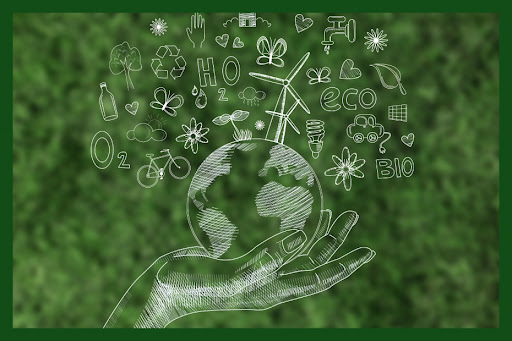
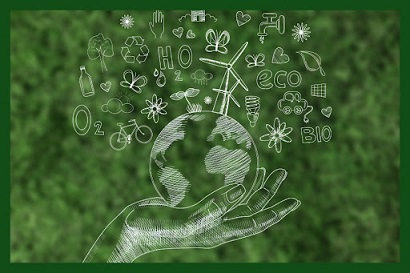
Add files via upload

diff --git a/index.html b/index.html
@@ -31,7 +31,7 @@
                     個人作品集
                 </a>
                 <ul class="dropdown-menu" aria-labelledby="navbarDropdown">
-                  <li><a class="dropdown-item" href="#">作品一</a></li>
+                  <li><a class="dropdown-item" href="https://sites.google.com/ntsh.ntct.edu.tw/s311026/index">作品一</a></li>
                   <li><a class="dropdown-item" href="#">作品二</a></li>
                   <li><a class="dropdown-item" href="#">作品三</a></li>
                 </ul>
